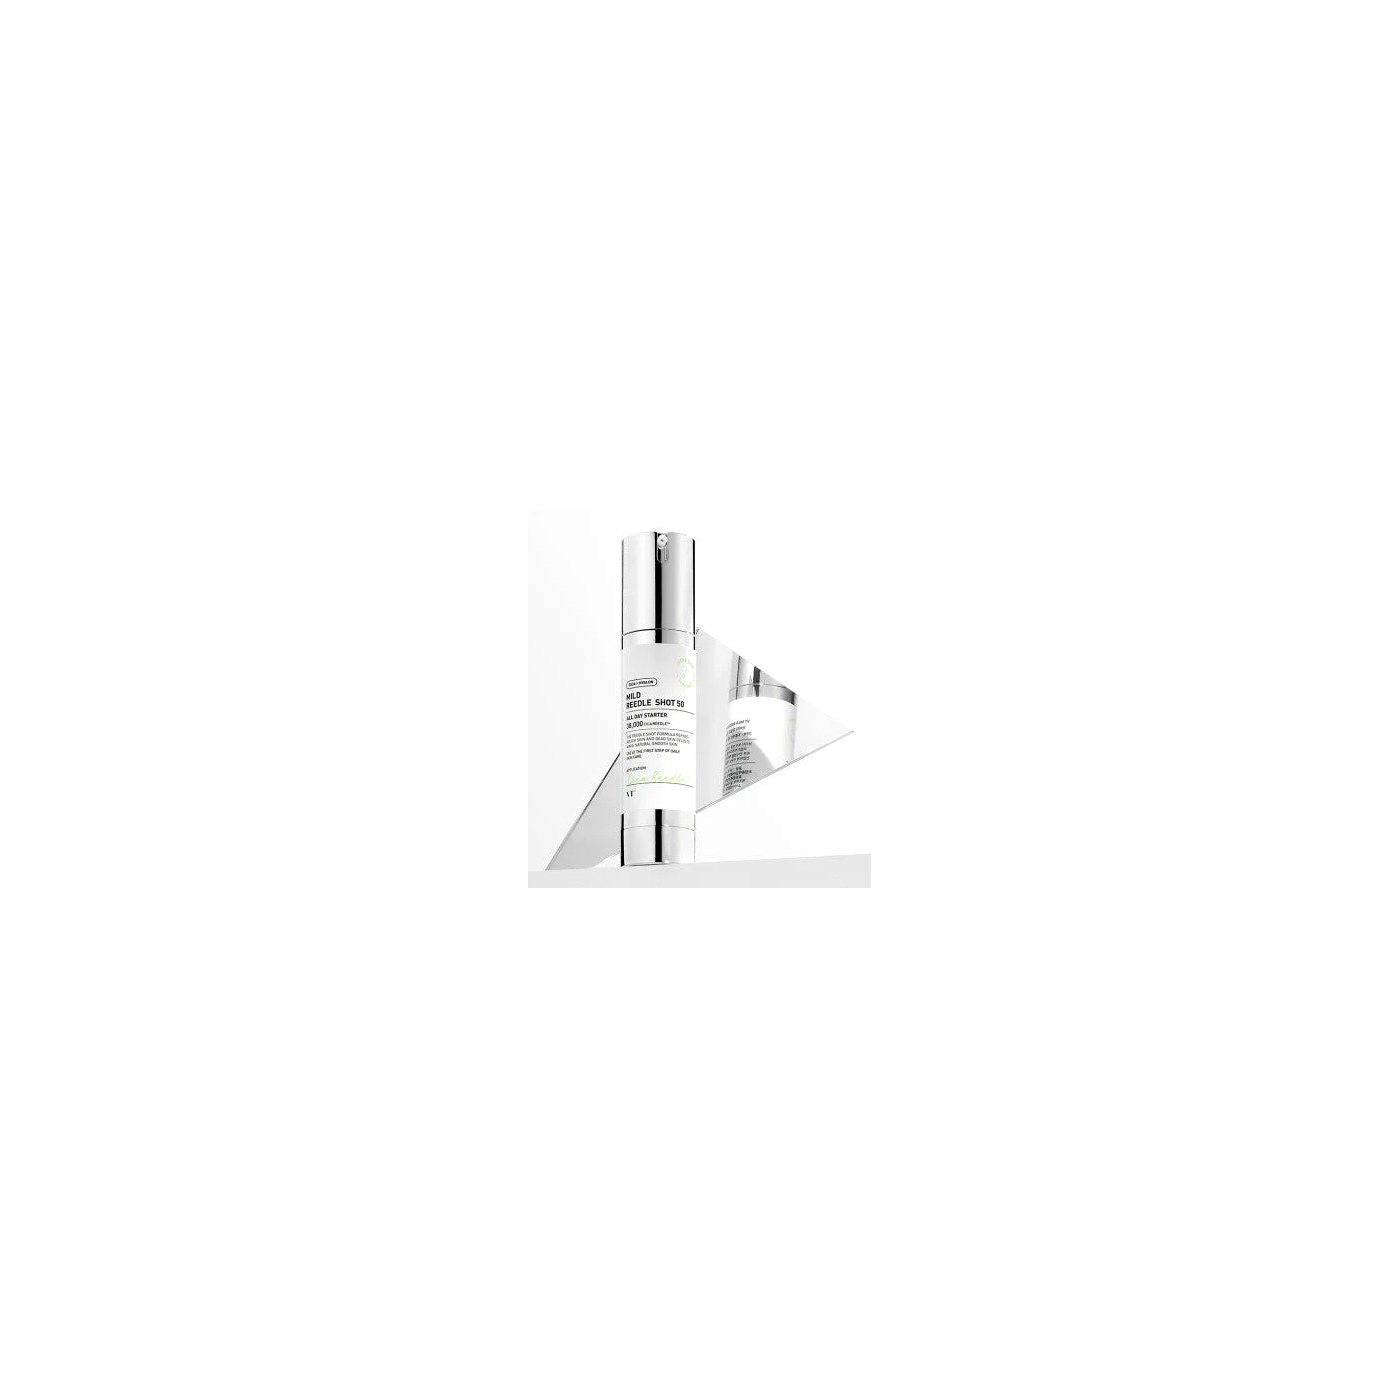
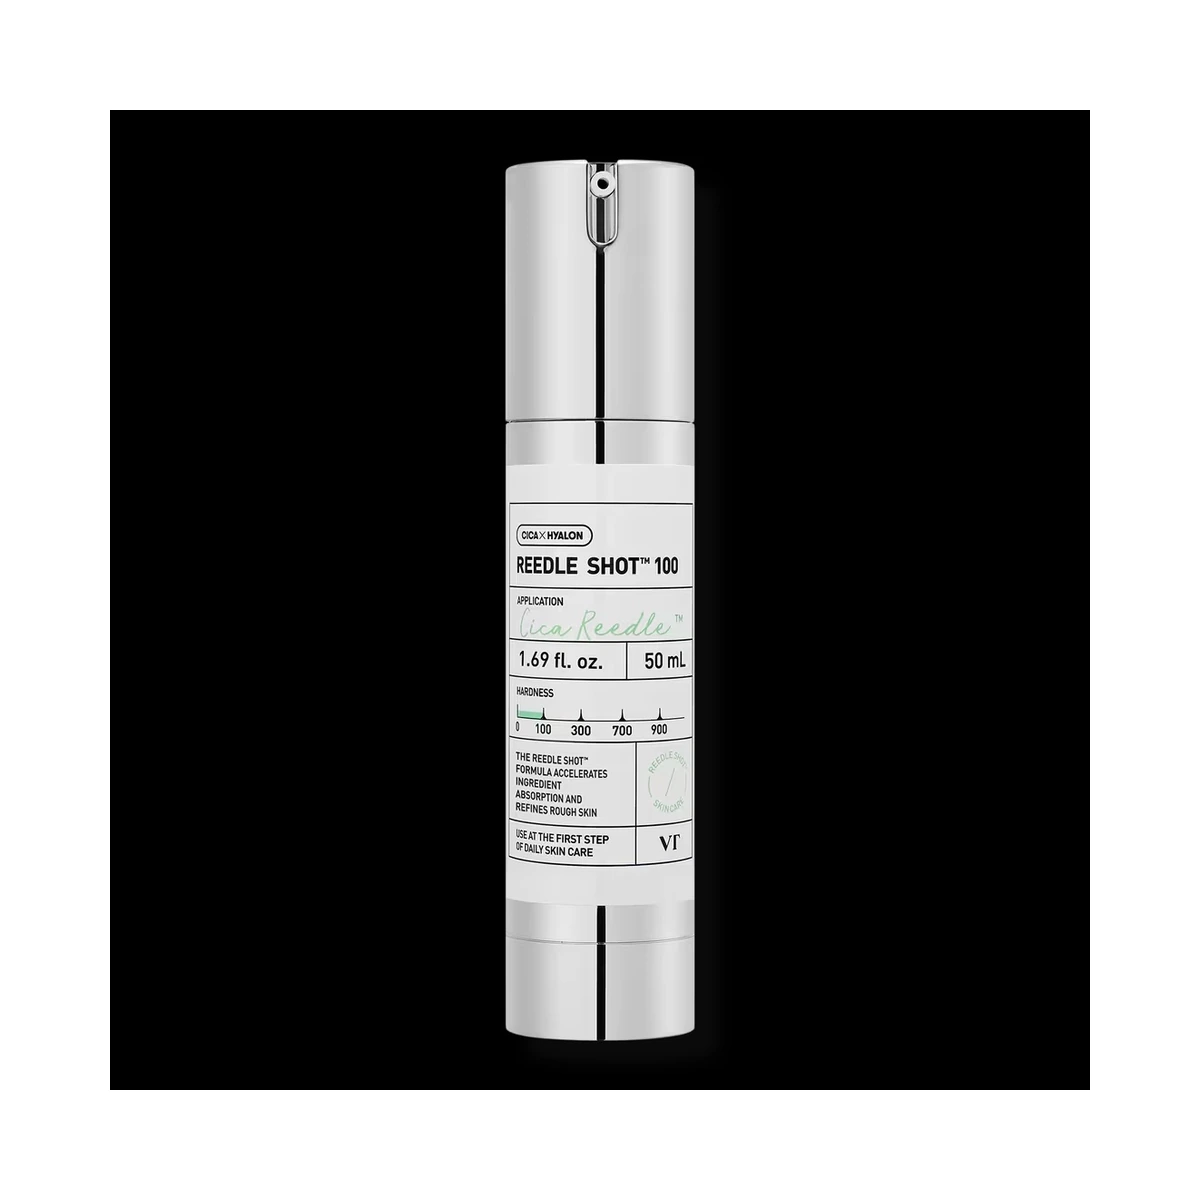
Add files via upload
priskin8.1

diff --git a/README.md b/README.md
@@ -1,3 +1,3 @@
-# PriSkin V8 HD Images
+# PriSkin V8 HD Updated
 
-Imágenes oficiales HD normalizadas para catálogo premium.
+Actualiza imágenes de VT Reedle Shot 100 y Mixsoon Vitamin C Cream.